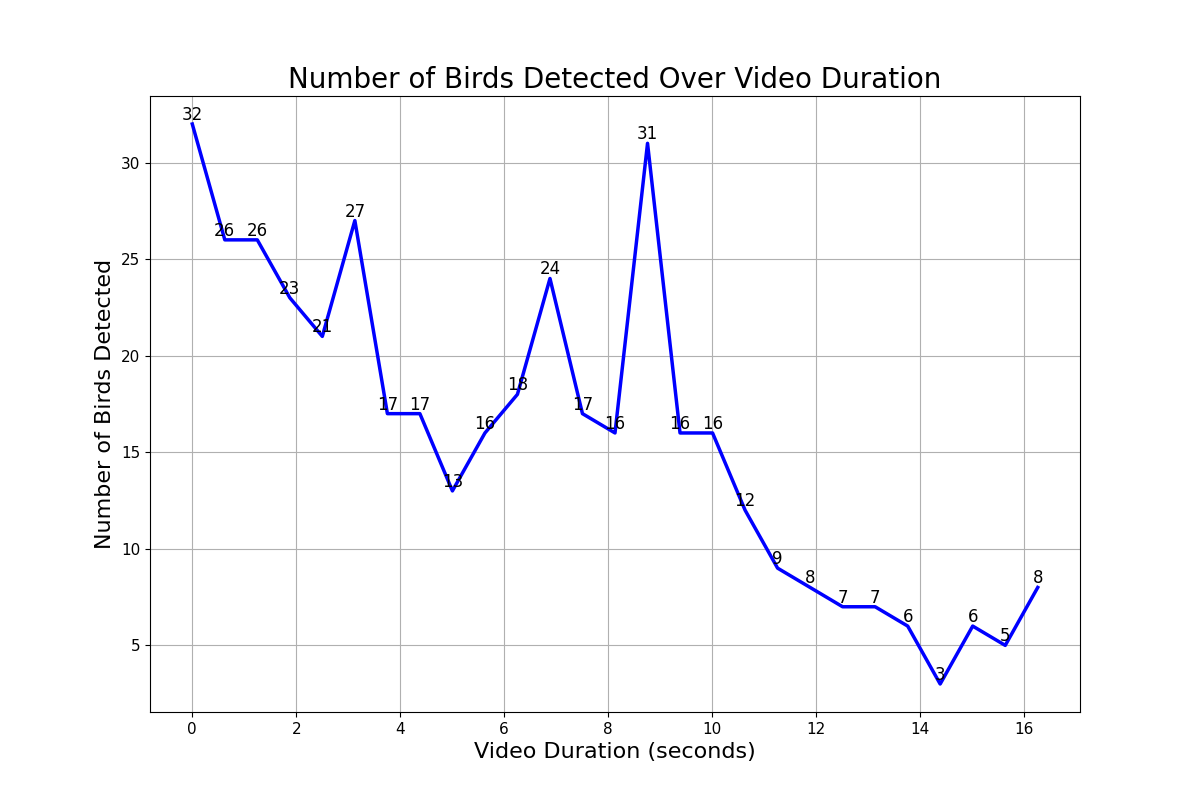
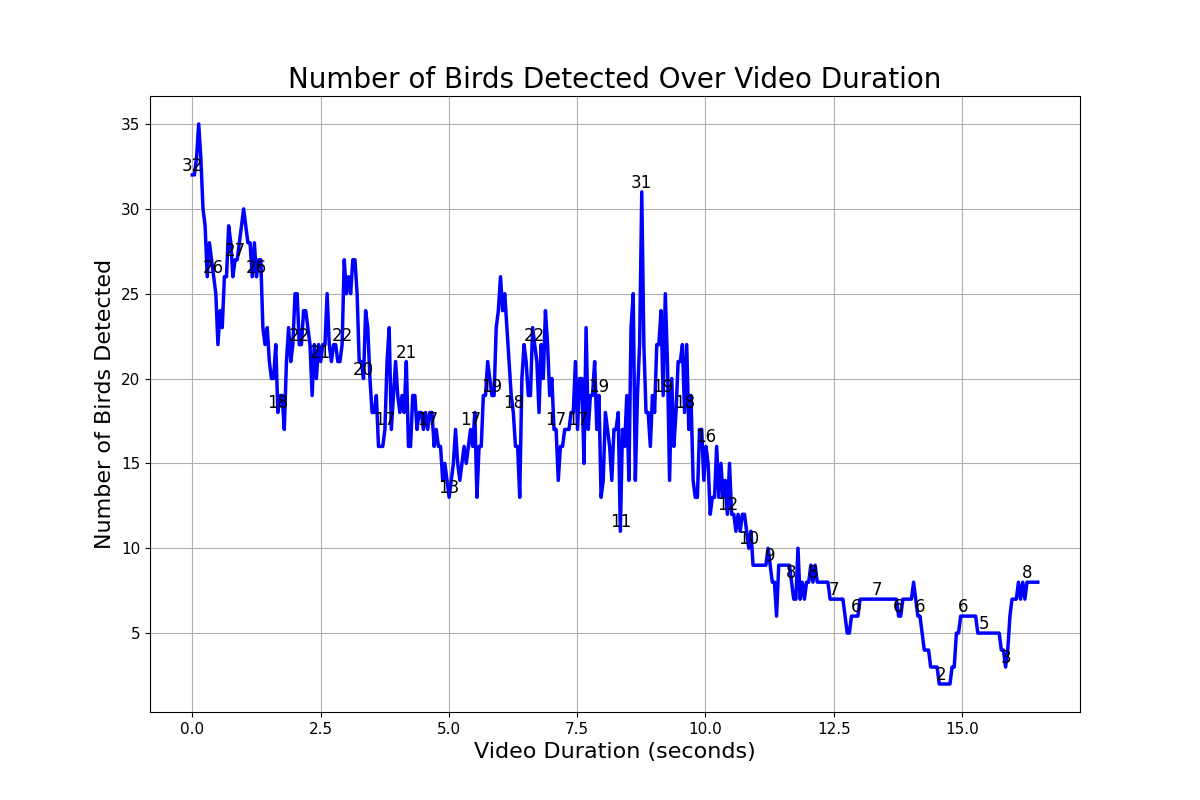
Change frame rate to 1

diff --git a/birds/data_visualization.py b/birds/data_visualization.py
@@ -45,18 +45,20 @@ def visualize_bird_detections() -> None:
     create_and_save_plot(bird_counts_per_second)
 
 
-def create_and_save_plot(bird_counts: pd.Series) -> None:
+def create_and_save_plot(bird_counts: pd.Series, annotation_interval: int = 10) -> None:
     """
     Generate and save a line plot for the given bird counts data.
 
     Args:
         bird_counts (Series): Bird counts per second.
+        annotation_interval (int): The interval at which to add annotations to the plot.
     """
     plt.figure(figsize=(12, 8))
     sns.lineplot(x=bird_counts.index, y=bird_counts.values, color="blue", linewidth=2.5)
 
-    for x, y in bird_counts.items():
-        plt.text(x, y, str(y), color="black", fontsize=12, ha="center", va="bottom")
+    for i, (x, y) in enumerate(bird_counts.items()):
+        if i % annotation_interval == 0:  # Only annotate every `annotation_interval`th point
+            plt.text(x, y, str(y), color="black", fontsize=12, ha="center", va="bottom")
 
     plt.title("Number of Birds Detected Over Video Duration", fontsize=20)
     plt.xlabel("Video Duration (seconds)", fontsize=16)

diff --git a/birds/main.py b/birds/main.py
@@ -4,8 +4,8 @@ from pathlib import Path
 
 import pandas as pd
 
-from .constants import DF_CLASSES_PATH, OUTPUT_FOLDER, FRAME_INTERVAL
-from .data_visualization import fetch_bird_data
+from .constants import DF_CLASSES_PATH, FRAME_INTERVAL, OUTPUT_FOLDER
+from .data_visualization import visualize_bird_detections
 from .database_operations import initialize_db, populate_database_tables
 from .file_operations import clean_output_folder
 from .video_processing import extract_and_detect_frames
@@ -26,8 +26,7 @@ def execute_program(video_file_path):
     initialize_db()
     class_data_df = pd.read_csv(DF_CLASSES_PATH)
     populate_database_tables(detected_objects_df, class_data_df)
-    fetch_bird_data()
-
+    visualize_bird_detections()
 
 if __name__ == "__main__":
     arg_parser = argparse.ArgumentParser(

diff --git a/birds/constants.py b/birds/constants.py
@@ -3,5 +3,5 @@ from pathlib import Path
 OUTPUT_FOLDER = Path("./data/output/frames/")
 DB_PATH = Path("./data/output/birds.db")
 DF_CLASSES_PATH = Path("./data/output/classes.csv")
-FRAME_INTERVAL = 15
+FRAME_INTERVAL = 1
 OUTPUT_DIRECTORY = Path("./data/output/")
